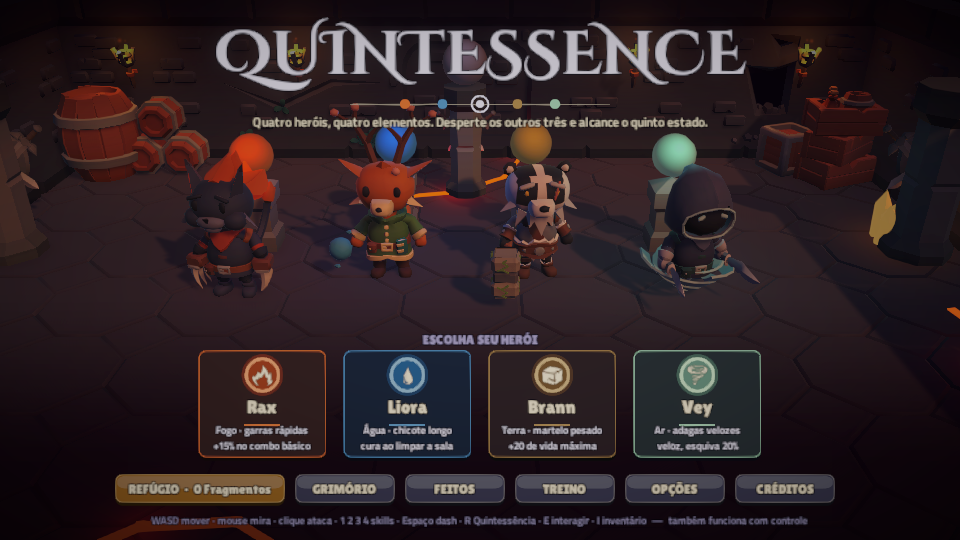
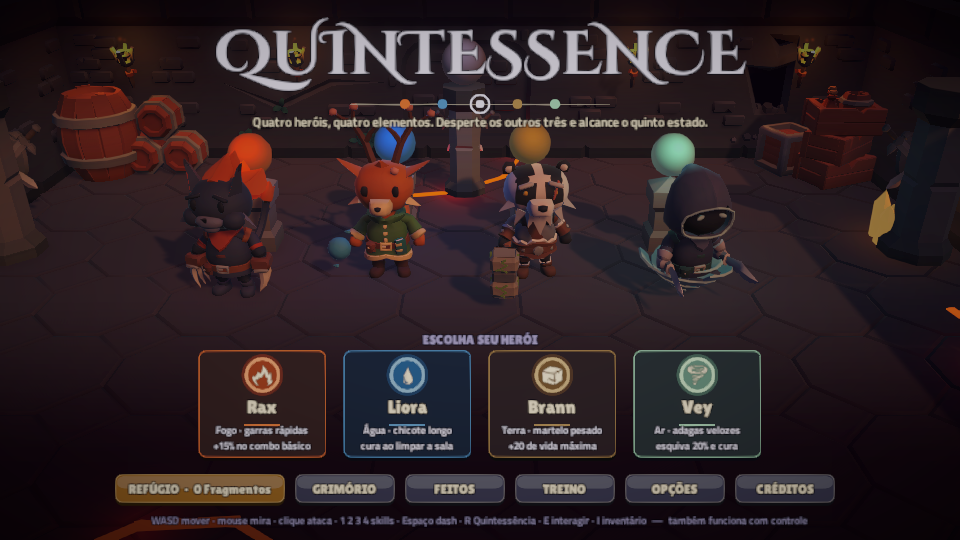
Carta do Vey e documentação da cura por esquiva

diff --git a/docs/progresso.html b/docs/progresso.html
@@ -71,6 +71,10 @@
         <ul>
           <li>Atravessar um golpe com o dash, em vez de só fugir dele, enche 8% da Quintessência e deixa o <b>próximo golpe básico crítico</b>. O aviso "ESQUIVA PERFEITA" aparece sobre o herói com uma pausa curta de impacto. Recompensa quem lê os avisos e joga perto</li>
         </ul>
+        <h3 style="margin-top:14px">Vey: esquivar cura</h3>
+        <ul>
+          <li>O Vey chegava às Elites e ao chefe com pouca vida (o herói que menos vencia nas medições). O Passo de Brisa agora <b>cura 3% a cada esquiva</b> (a da passiva de 20% ou a perfeita), no máximo uma vez a cada meio segundo: o herói veloz se sustenta jogando perto</li>
+        </ul>
         <h3 style="margin-top:14px">Duas Fusões novas (seis no total)</h3>
         <ul>
           <li>A <b>Lama</b> (Água + Terra) agora deixa um lamaçal de 3,5 s que encharca. Uma skill de terceiro elemento sobre ele vira <b>Barro Cozido</b> (Fogo: o barro endurece e racha, armadura quebrada em quem estava dentro) ou <b>Tempestade de Poeira</b> (Ar: cega e empurra numa área grande)</li>

diff --git a/Assets/Game/Game/Tests/PlayMode/RunPlayTests.cs b/Assets/Game/Game/Tests/PlayMode/RunPlayTests.cs
@@ -1444,10 +1444,11 @@ namespace Quintessence.Game.PlayTests
             life = hp.Current;
             hp.TakeDamage(new DamageInfo(12f, ElementType.None, Team.Enemy, foe.gameObject));
             hp.TakeDamage(new DamageInfo(12f, ElementType.None, Team.Enemy, foe.gameObject));
-            Assert.AreEqual(life, hp.Current, 0.01f, "o dash atravessa o golpe");
+            Assert.GreaterOrEqual(hp.Current, life, "o dash atravessa o golpe (nenhum dano entra)");
             Assert.AreEqual(1, hero.PerfectDodges, "dois golpes no mesmo instante contam uma esquiva");
             Assert.AreEqual(meter + PlayerController.PerfectDodgeCharge, hero.Quintessence.Meter, 0.01f, "enche a Quintessencia");
             Assert.IsTrue(hero.PerfectCritReady);
+            Assert.Greater(hp.Current, life, "Vey: a esquiva perfeita cura (Passo de Brisa)");
             for (int k = 0; k < 30 && hero.IsDashing; k++) yield return null;
             // o proximo golpe basico e critico
             bool crit = false;

diff --git a/Assets/Game/UI/TitleMenu.cs b/Assets/Game/UI/TitleMenu.cs
@@ -369,7 +369,7 @@ namespace Quintessence.UI
             UiKit.Text(UiKit.Rect("Pick", root, new Vector2(0.5f, 0.5f), new Vector2(0, -138), new Vector2(1000, 40)), "ESCOLHA SEU HERÓI", 26, UiKit.Dim);
 
             string[] names = { "Rax", "Liora", "Brann", "Vey" };
-            string[] notes = { "Fogo · garras rápidas\n+15% no combo básico", "Água · chicote longo\ncura ao limpar a sala", "Terra · martelo pesado\n+20 de vida máxima", "Ar · adagas velozes\nveloz, esquiva 20%" };
+            string[] notes = { "Fogo · garras rápidas\n+15% no combo básico", "Água · chicote longo\ncura ao limpar a sala", "Terra · martelo pesado\n+20 de vida máxima", "Ar · adagas velozes\nesquiva 20% e cura" };
             string[] iconNames = { "fire", "water", "earth", "air" };
             var mid = new Vector2(0.5f, 0.5f);
             for (int i = 0; i < 4; i++)

diff --git a/docs/GDD.md b/docs/GDD.md
@@ -42,7 +42,7 @@ Quatro aprendizes, cada um nascido de um elemento. O jogador escolhe um no iníc
 | **Rax** | Felino caçador, garras | Fogo · Labareda | Garras do Caçador: combo básico +15% |
 | **Liora** | Espírito cervo-raposa, orbe d'água | Água · Maré | Seiva da Fonte: cura 8% ao limpar a sala; a Maré cura mais 3% |
 | **Brann** | Texugo veterano, martelo de pedra | Terra · Pilar de Pedra | Couro Velho: +20 de vida máxima |
-| **Vey** | Espírito do vento encapuzado, sem pernas, duas adagas | Ar · Vendaval | Passo de Brisa: +10% de velocidade, dash 20% mais rápido, 20% de esquiva e +10 de vida |
+| **Vey** | Espírito do vento encapuzado, sem pernas, duas adagas | Ar · Vendaval | Passo de Brisa: +10% de velocidade, dash 20% mais rápido, 20% de esquiva e +10 de vida; cada esquiva (da passiva ou perfeita) cura 3% |
 
 São os heróis do Quintessence 2D. No 3D usam os corpos e as animações do pack com cabeça, cauda e arma próprias. A parte mágica de cada um (crina, orbe, rachaduras do martelo, olhos e debrum) assume a cor da última skill usada.
 
